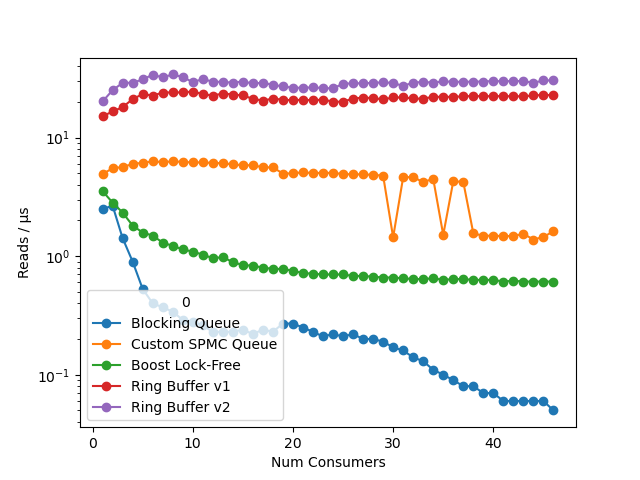
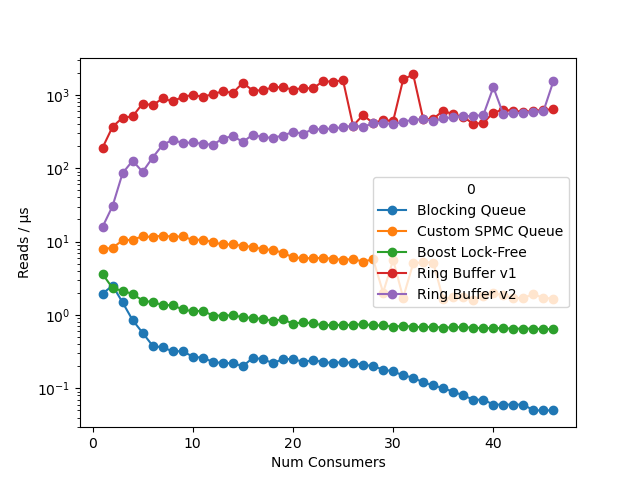
update benchmark intel

diff --git a/plotting/plot_benchmark.py b/plotting/plot_benchmark.py
@@ -23,11 +23,11 @@ def make_frame(data_str: str):
 
 intel_str = """
 Num Consumers       : 1.00       2.00       3.00       4.00       5.00       6.00       7.00       8.00       9.00       10.00      11.00      12.00      13.00      14.00      15.00      16.00      17.00      18.00      19.00      20.00      21.00      22.00      23.00      24.00      25.00      26.00      27.00      28.00      29.00      30.00      31.00      32.00      33.00      34.00      35.00      36.00      37.00      38.00      39.00      40.00      41.00      42.00      43.00      44.00      45.00      46.00
-Blocking Queue      : 2.48       2.67       1.42       0.90       0.53       0.40       0.37       0.34       0.29       0.28       0.26       0.23       0.23       0.23       0.24       0.22       0.24       0.23       0.27       0.27       0.25       0.23       0.21       0.22       0.21       0.22       0.20       0.20       0.19       0.17       0.16       0.14       0.13       0.11       0.10       0.09       0.08       0.08       0.07       0.07       0.06       0.06       0.06       0.06       0.06       0.05
-Custom SPMC Queue   : 4.92       5.50       5.64       5.98       6.12       6.30       6.20       6.29       6.23       6.16       6.17       6.10       6.07       5.94       5.83       5.84       5.61       5.59       4.97       4.98       5.10       5.00       5.05       5.02       4.93       4.88       4.90       4.83       4.78       1.44       4.62       4.64       4.20       4.49       1.51       4.27       4.23       1.56       1.48       1.49       1.47       1.48       1.54       1.38       1.45       1.62
-Boost Lock-Free     : 3.53       2.83       2.33       1.81       1.58       1.49       1.30       1.22       1.14       1.09       1.03       0.96       0.98       0.89       0.84       0.83       0.80       0.78       0.78       0.75       0.72       0.71       0.70       0.70       0.70       0.68       0.68       0.67       0.66       0.66       0.65       0.64       0.64       0.65       0.63       0.64       0.64       0.63       0.63       0.63       0.61       0.62       0.61       0.61       0.61       0.61
-Ring Buffer v1      : 15.08      16.58      18.04      21.05      23.24      22.57      23.93      24.03      23.99      24.43      23.22      22.58      23.49      23.05      22.65      21.19      20.48      21.29      20.82      20.61      20.83      20.58      20.90      20.05      20.03      21.33      21.70      21.51      20.95      21.77      21.75      21.35      21.20      22.09      21.99      22.07      22.20      22.42      22.23      22.39      22.26      22.33      22.20      22.67      22.82      22.77
-Ring Buffer v2      : 20.13      25.04      28.89      28.98      30.86      33.87      32.11      34.06      32.30      29.35      31.06      29.60      29.40      29.03      29.67      28.55      28.96      27.81      26.97      26.27      26.30      26.45      26.14      25.93      28.45      28.59      28.70      28.88      29.20      28.84      27.20      29.09      29.37      29.07      29.74      29.49      29.50      29.57      29.67      29.93      29.79      29.95      29.89      28.92      30.29      30.30
+Blocking Queue      : 1.95       2.51       1.48       0.85       0.57       0.38       0.36       0.32       0.32       0.27       0.26       0.23       0.22       0.22       0.20       0.26       0.25       0.22       0.25       0.25       0.23       0.24       0.23       0.22       0.23       0.22       0.21       0.20       0.18       0.17       0.15       0.14       0.12       0.11       0.10       0.09       0.08       0.07       0.07       0.06       0.06       0.06       0.06       0.05       0.05       0.05
+Custom SPMC Queue   : 7.90       8.19       10.41      10.57      11.80      11.50      12.08      11.58      11.78      10.48      10.63      9.81       9.12       9.17       8.73       8.45       7.86       7.68       7.02       6.09       5.94       5.92       6.01       5.81       5.63       5.78       5.31       5.74       2.02       5.60       1.72       5.04       5.23       5.16       1.63       1.77       1.75       1.61       1.79       1.96       1.86       1.69       1.71       1.91       1.71       1.66
+Boost Lock-Free     : 3.61       2.32       2.13       1.93       1.57       1.49       1.37       1.35       1.19       1.12       1.14       0.98       0.98       0.99       0.93       0.91       0.88       0.83       0.87       0.76       0.79       0.77       0.72       0.73       0.73       0.73       0.75       0.72       0.72       0.69       0.71       0.69       0.68       0.69       0.67       0.68       0.68       0.67       0.66       0.66       0.66       0.65       0.65       0.65       0.64       0.64
+Ring Buffer v1      : 189.75     366.26     487.60     506.77     759.21     720.22     892.07     810.31     938.57     992.04     938.26     1018.19    1115.87    1059.84    1454.02    1139.30    1150.47    1265.57    1268.94    1170.53    1236.12    1220.15    1529.97    1507.61    1574.45    378.25     530.45     409.41     452.73     437.90     1614.92    1894.24    466.68     468.04     609.05     538.57     501.07     400.94     412.83     571.99     624.28     601.65     587.82     597.39     626.74     630.97
+Ring Buffer v2      : 15.84      30.45      85.41      126.18     88.95      139.37     207.73     243.04     219.27     224.48     213.69     208.30     252.35     274.80     227.04     286.76     262.55     259.61     278.02     310.87     296.11     338.50     338.71     347.43     361.15     377.44     365.22     408.67     415.20     394.62     430.68     454.76     464.85     442.05     474.87     496.38     510.74     513.80     528.90     1266.55    542.41     558.96     569.62     582.58     597.36     1539.00
 """
 
 # Apple M2
@@ -40,8 +40,9 @@ Ring Buffer v1      : 63.50      104.09     68.27      74.44      98.80      86.
 Ring Buffer v2      : 680.07     1093.78    1622.70    2206.94    3159.47    3593.11    4133.09    4361.88
 """
 
-df = make_frame(apple_str)
-# df = make_frame(intel_str)
+# df = make_frame(apple_str)
+# df = make_frame(intel_str1)
+df = make_frame(intel_str)
 
 print(df)
 df.plot(x="Num Consumers", marker='o')
